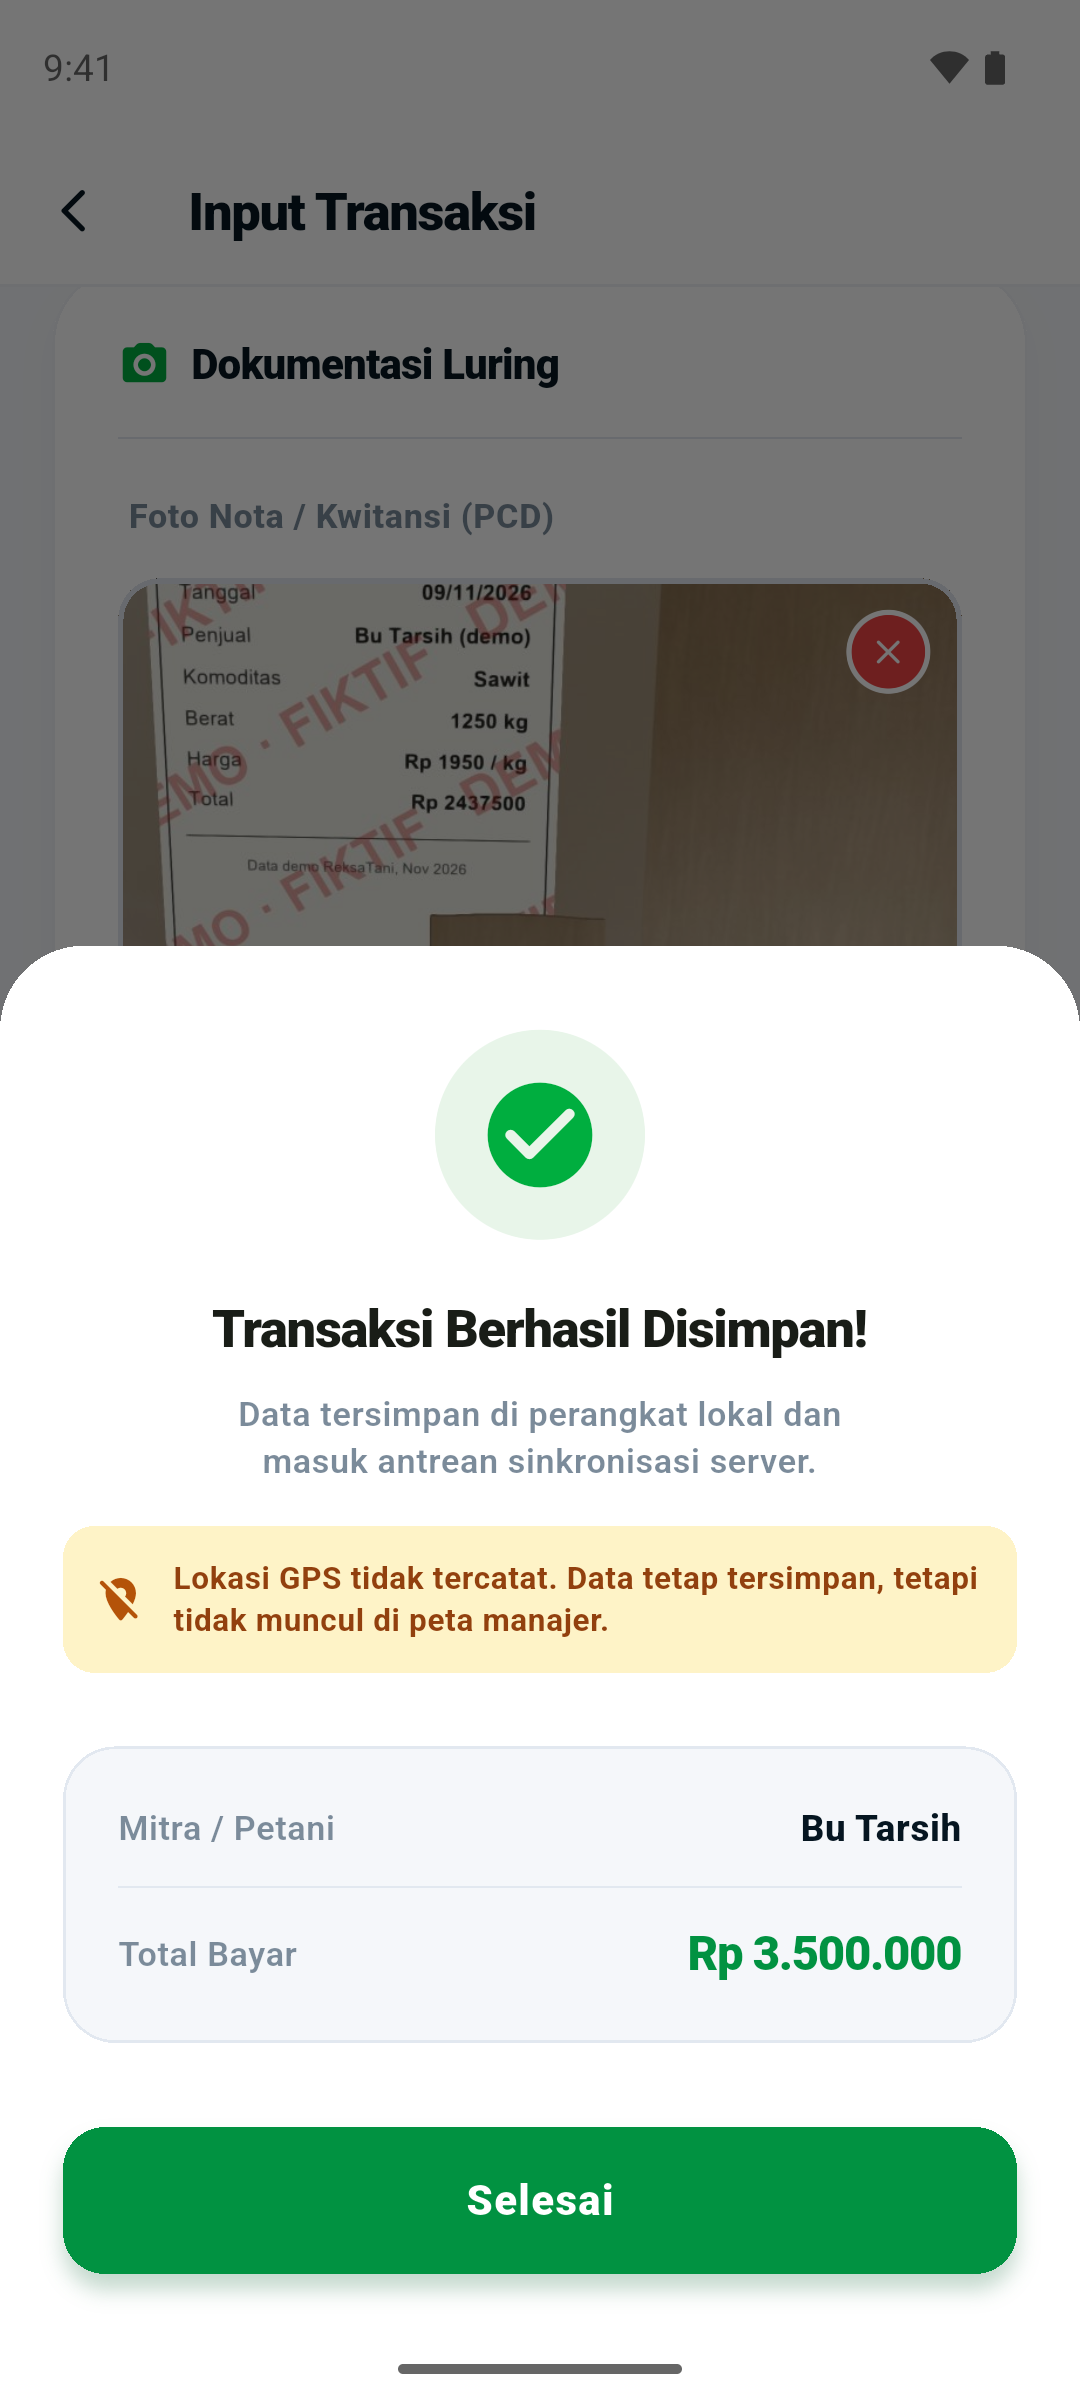
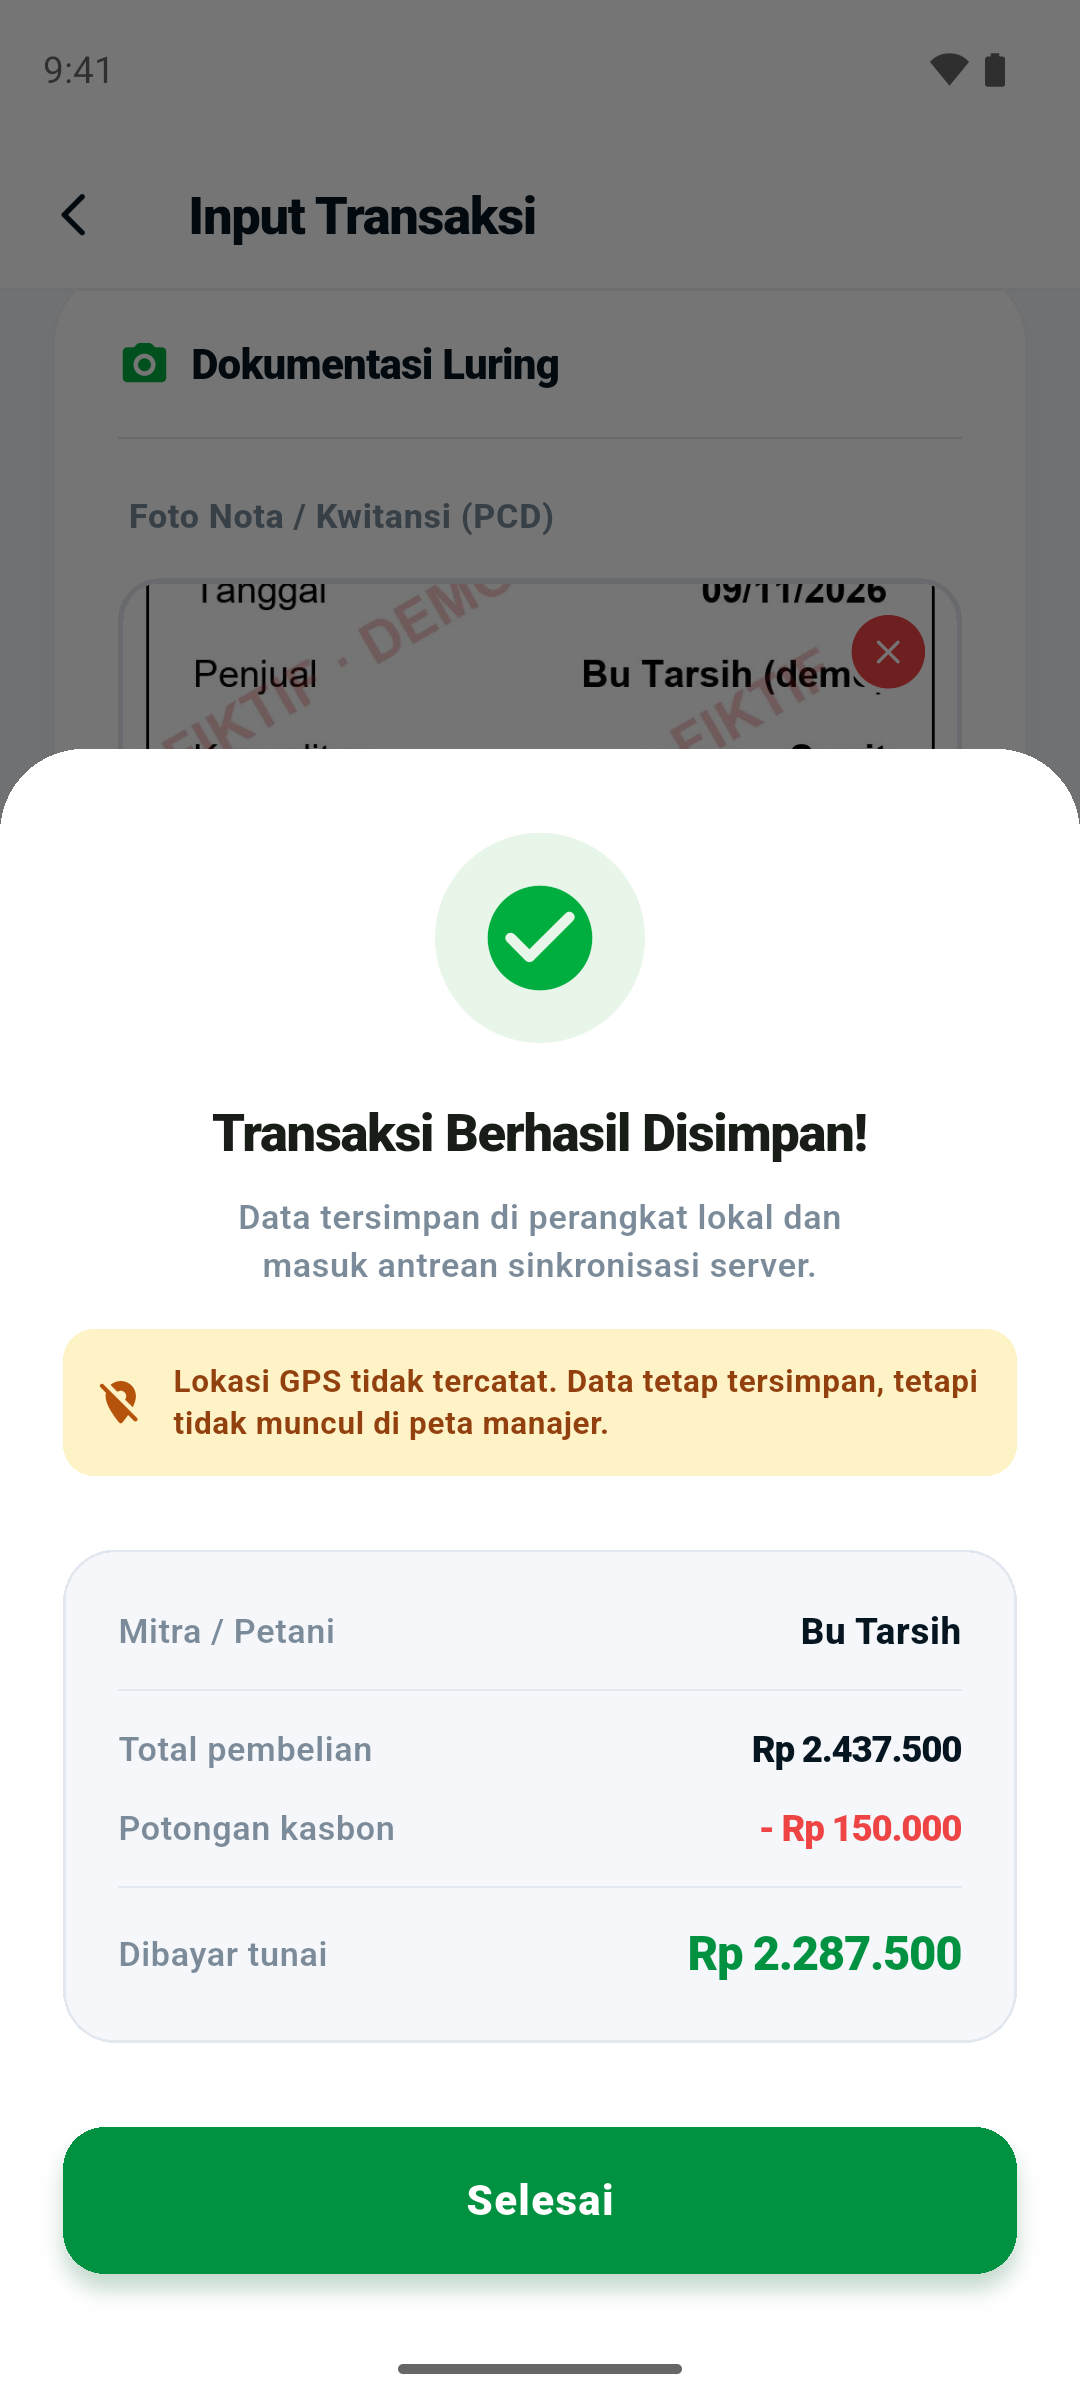
docs(screenshots): retake the save result and manager notifications

diff --git a/docs/screenshots/INDEX.md b/docs/screenshots/INDEX.md
@@ -46,14 +46,14 @@ The receipt is a generated image marked "CONTOH / DEMO - FIKTIF" with a "DEMO ·
 | `25-agen-rubrik-grade.png` | Grade rubric | Collector | Checklist answered, grade A | |
 | `26-agen-harga-maks-ditolak.png` | Transaction form | Collector | Price above max reset to the limit | |
 | `27-agen-izin-lokasi.png` | Location permission | Collector | Android permission prompt | Denied on purpose |
-| `28-agen-simpan-gps-gagal.png` | Save result | Collector | Saved without GPS | Location permission denied in the emulator; stored as null |
+| `28-agen-simpan-gps-gagal.png` | Save result | Collector | Saved without GPS, kasbon deducted | Location permission denied in the emulator; stored as null. Shows total, kasbon deduction, and cash paid (1250 kg × Rp1,950 read by OCR; receipt picked from the gallery) |
 | `29-agen-kamera-kopi-poster.png` | Camera | Collector | Commodity photo | Emulator camera feed; dataset coffee photo posters |
 | `30-agen-form-saran-ai-kopi.png` | Transaction form | Collector | No commodity suggestion | Router (still): not a commodity 0.98, coffee 0.01 |
 | `31-agen-pencairan-kasbon.png` | Kasbon disbursement | Collector | Current debt shown | |
 | `32-agen-pencairan-tersimpan.png` | Disbursement result | Collector | Saved locally, queued | Debt grows from Rp1.7M to Rp2.2M |
 | `33-agen-riwayat-pending.png` | History (pending) | Collector | Disbursements and purchase waiting | Disbursements cannot be edited |
 | `34-manajer-beranda.png` | Manager home | Manager | Totals across collectors | |
-| `35-manajer-notifikasi.png` | Notifications | Manager | New transactions, sync failed | App-generated texts; the app's sync pill overlaps the first title |
+| `35-manajer-notifikasi.png` | Notifications | Manager | New transactions, sync failed | App-generated texts; the sync pill sits above the list |
 | `36-manajer-analitik.png` | Analytics | Manager | Sync ratio, stock per commodity | |
 | `37-manajer-analitik-lanjut.png` | Analytics (scrolled) | Manager | Grade breakdown | |
 | `38-manajer-peta.png` | Map | Manager | Transactions with coordinates | Fictional points; OSM tiles |
